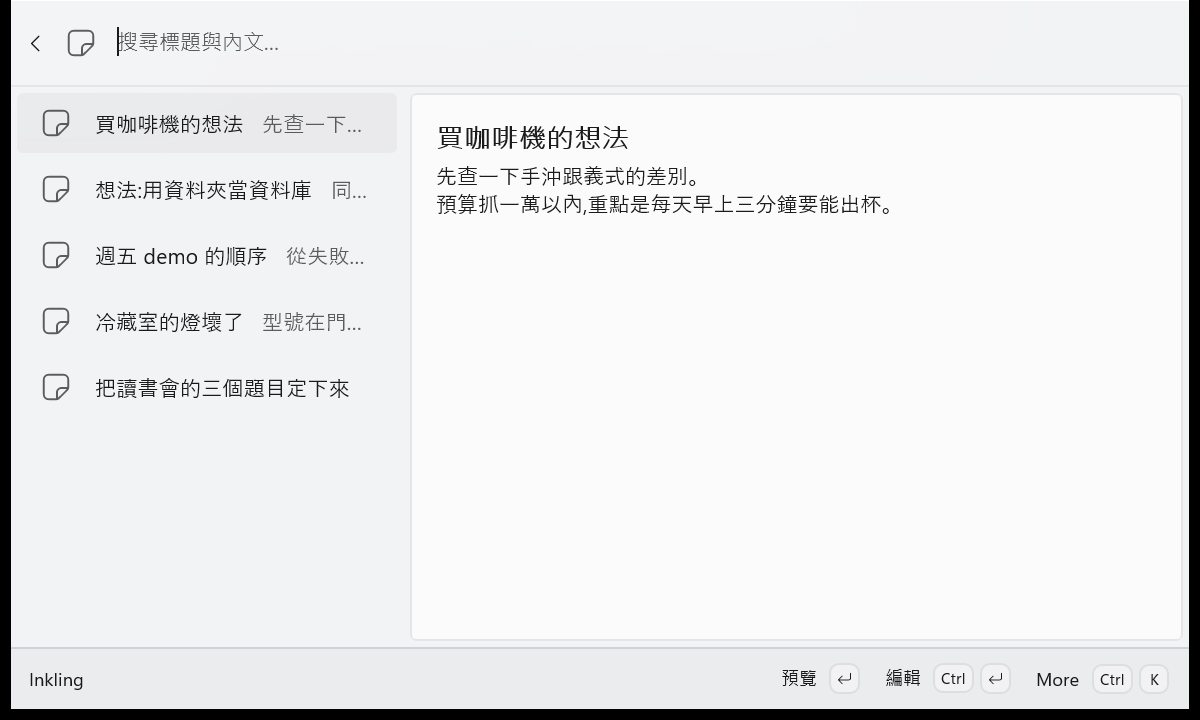
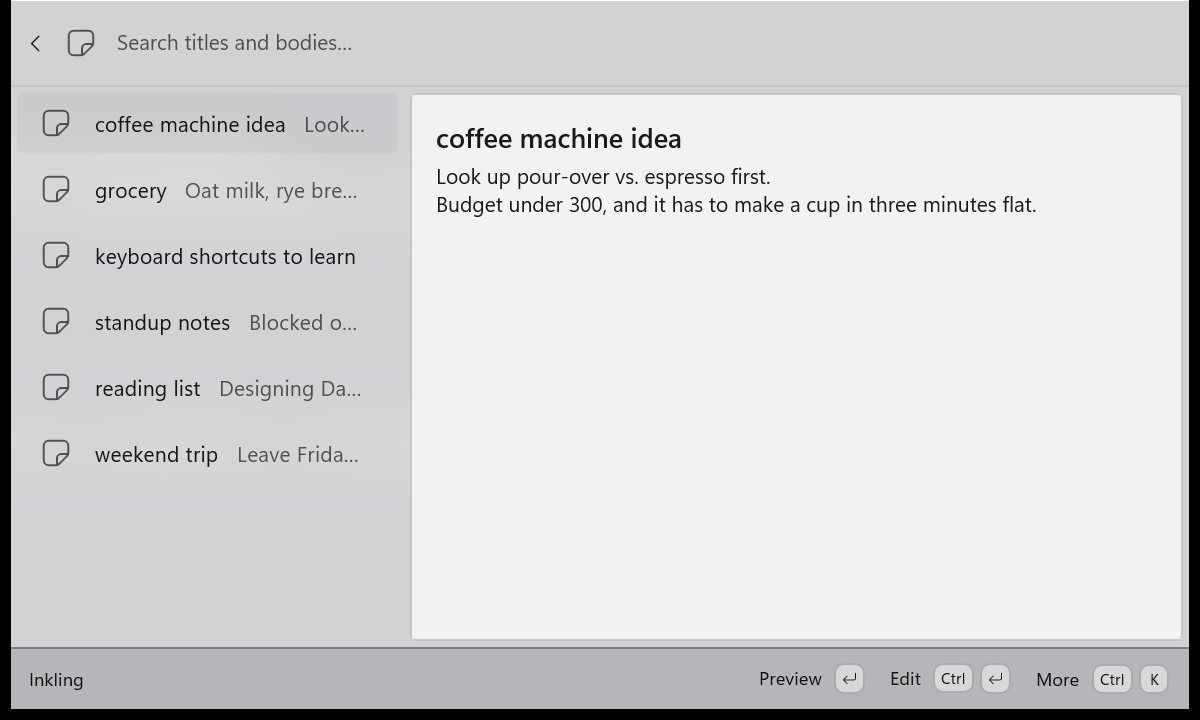
docs: retake the screenshots, in English this time
The previous set predated 19 UI files, including CommandIds.cs, Icons.cs
and all three .resx, so the command titles on screen no longer existed.
top-level-commands.png was older still and had no scratchpad row.

English was impossible before: half the text in a shot belongs to
Command Palette, follows the Windows display language, and no extension
can reach it. Both READMEs share one image set, and English is the
outward default.

diff --git a/CHANGELOG.md b/CHANGELOG.md
@@ -225,6 +225,14 @@
   (照抄跑不起來);手動驗證清單〈換一種語言〉那兩條只列四個頂層命令,漏了隨手草稿;
   README 維護註解說三份對外文案「從英文 pitch 拿」,實際上是三個長度不同的欄位、
   三句不同的話 —— 改成講清楚什麼時候要三處一起動。
+- **三張截圖與 GIF 全部重拍,而且第一次是全英文的。** 上一組是在繁體中文系統上拍的,
+  而英文 README 是對外預設 —— 以前做不到:截圖裡有一半的字串(「Results」、底部那排
+  `Open` / `Pin to home` / `More`)是 CmdPal 自己的,跟著 Windows 顯示語言走,擴展碰不到。
+  順帶補掉真正的過期:上一次重拍之後有 19 個 UI 檔案動過,包含 `CommandIds.cs`、`Icons.cs`
+  與三份 `.resx` 全部(命令標題與所有介面字串),而 `top-level-commands.png` 更舊,
+  少了「隨手草稿」那一列。`docs/development.md`〈重拍截圖與 GIF〉補上兩個踩過的坑:
+  **顯示語言要先是英文**(換完要重新登入),以及**每一串都要 `show|esc|show` 開頭** ——
+  CmdPal 記得上一次停在哪一頁,直接 `show` 會把別名打進前一頁的搜尋框,而且不報錯。
 - `docs/design-notes.md` 多一節 [〈評估過但沒有做〉](docs/design-notes.md#deferred):
   **查過、量過,然後決定不做**的東西 —— 清單第一次開啟沒有載入指示(本機 SSD 3000 則
   冷掃 108–125 ms,但 OneDrive Files On-Demand 那條路從沒量過)、沒有實作 dock band、

diff --git a/README.zh-Hant.md b/README.zh-Hant.md
@@ -36,7 +36,9 @@ Inkling 自己沒有一行同步程式碼。
      拍之前先把筆記資料夾指到一個 demo 資料夾,別把真的筆記放進公開 repo。
      GIF 是同一個腳本連拍幾張再用 ffmpeg 合成的,流程寫在 docs/development.md。 -->
 
-介面語言跟著 Windows 的顯示語言走(英文、繁體中文、簡體中文);這裡的截圖是在繁體中文系統上拍的。
+介面語言跟著 Windows 的顯示語言走(英文、繁體中文、簡體中文);**這裡的截圖是在英文系統上拍的** ——
+兩份 README 共用同一組圖,而截圖裡有一半的字串(「Results」、底部那排按鈕)是 CmdPal 自己的,
+跟著系統語言走、我們改不了。
 
 ## 需求
 

diff --git a/README.md b/README.md
@@ -40,7 +40,7 @@ come from whatever cloud drive and editor you already use; Inkling itself contai
      same script stitched with ffmpeg; the procedure is in docs/development.md. -->
 
 The UI follows your Windows display language (English, Traditional Chinese, Simplified Chinese);
-the screenshots here were taken on a Traditional Chinese system.
+the screenshots here were taken on an English system.
 
 ## Requirements
 
